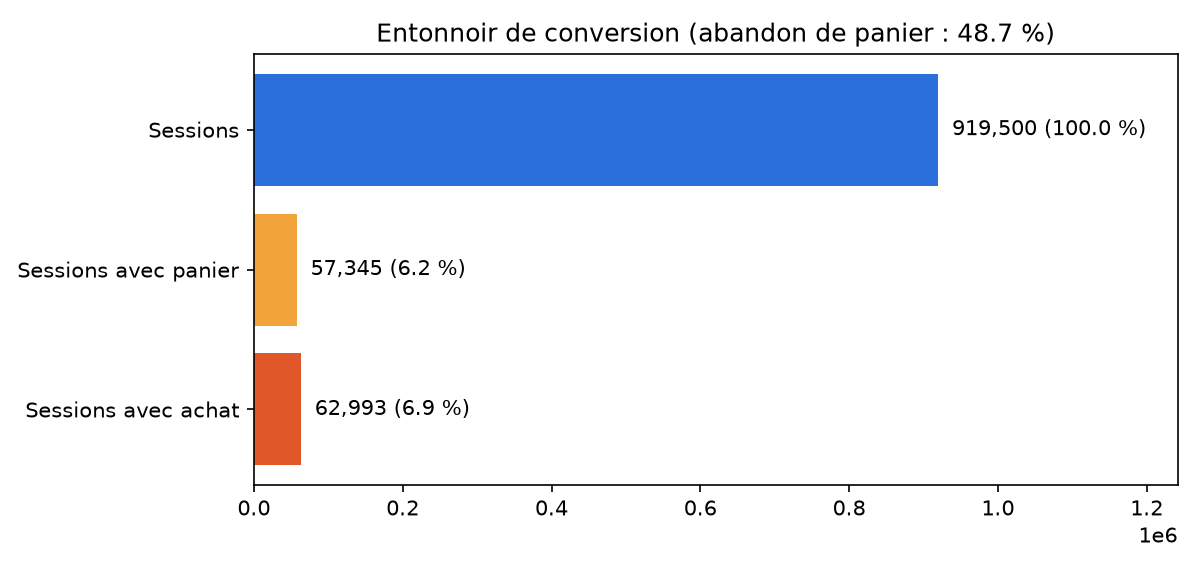
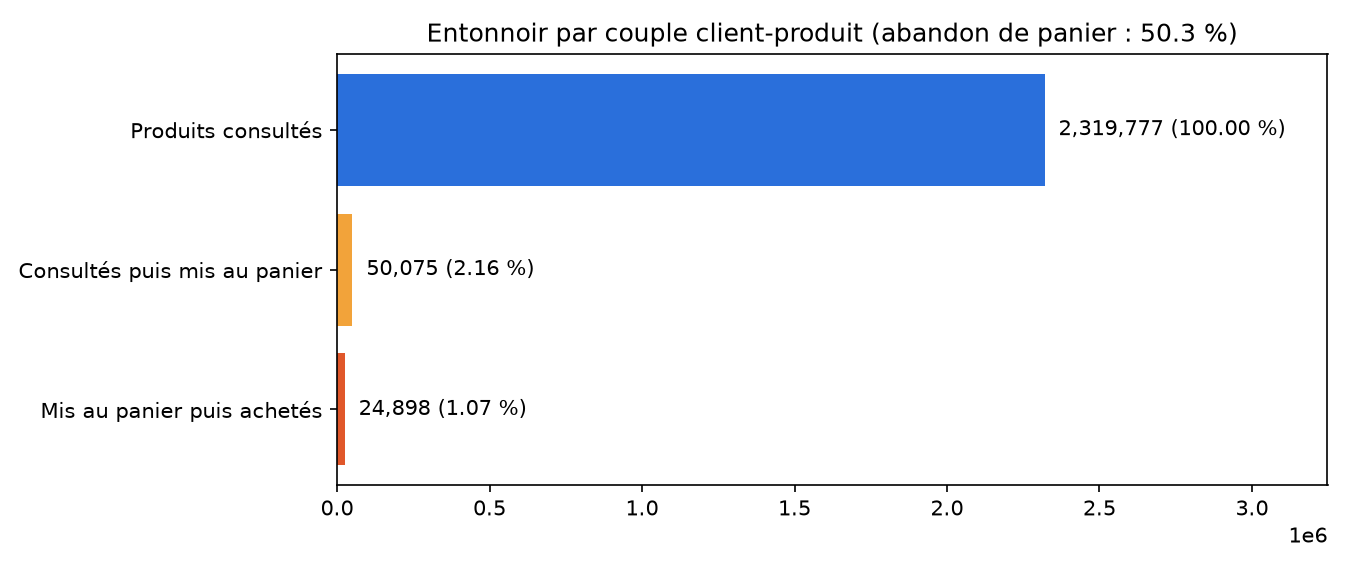
Etape 4: analyse exploratoire, entonnoir client-produit, graphiques

diff --git a/src/processing/funnel_product.py b/src/processing/funnel_product.py
@@ -1,0 +1,87 @@
+"""
+Étape 4 (correction) : entonnoir au niveau (client, produit).
+
+Pourquoi : au niveau session, ~50 % des sessions d'achat n'ont pas d'événement 'cart'
+(panier créé dans une autre session, ou achat direct). L'entonnoir par session n'est donc
+pas monotone. Au niveau (client, produit) sur tout le mois, on suit un même produit
+d'une session à l'autre.
+
+Usage :
+  docker exec spark-master /opt/spark/bin/spark-submit \
+      --master "local[4]" --driver-memory 3g \
+      /opt/project/src/processing/funnel_product.py
+"""
+import argparse
+import csv
+import os
+import time
+
+from pyspark.sql import SparkSession
+from pyspark.sql import functions as F
+
+
+def main():
+    p = argparse.ArgumentParser()
+    p.add_argument("--input", default="/opt/project/data/silver/events")
+    p.add_argument("--out-dir", default="/opt/project/docs/results")
+    args = p.parse_args()
+
+    spark = (
+        SparkSession.builder.appName("funnel-product")
+        .config("spark.sql.session.timeZone", "UTC")
+        .getOrCreate()
+    )
+    spark.sparkContext.setLogLevel("WARN")
+    t0 = time.time()
+
+    ev = spark.read.parquet(args.input).select("user_id", "product_id", "event_type", "event_time")
+
+    def first_time(t):
+        return F.min(F.when(F.col("event_type") == t, F.col("event_time")))
+
+    pairs = ev.groupBy("user_id", "product_id").agg(
+        first_time("view").alias("t_view"),
+        first_time("cart").alias("t_cart"),
+        first_time("purchase").alias("t_purchase"),
+    ).cache()
+
+    has_view = F.col("t_view").isNotNull()
+    has_cart = F.col("t_cart").isNotNull()
+    has_purchase = F.col("t_purchase").isNotNull()
+    bought_after_cart = has_cart & has_purchase & (F.col("t_purchase") >= F.col("t_cart"))
+
+    def s(cond):
+        return F.sum(F.when(cond, 1).otherwise(0))
+
+    r = pairs.agg(
+        F.count("*").alias("pairs_total"),
+        s(has_view).alias("viewed"),
+        s(has_view & has_cart).alias("viewed_carted"),
+        s(has_view & bought_after_cart).alias("viewed_carted_purchased"),
+        s(has_cart).alias("carted"),
+        s(bought_after_cart).alias("carts_converted"),
+        s(has_purchase).alias("purchased"),
+        s(has_purchase & ~bought_after_cart).alias("purchases_without_prior_cart"),
+    ).first()
+
+    row = r.asDict()
+    row["cart_abandon_rate"] = round(1 - row["carts_converted"] / row["carted"], 4)
+    row["direct_purchase_share"] = round(row["purchases_without_prior_cart"] / row["purchased"], 4)
+
+    os.makedirs(args.out_dir, exist_ok=True)
+    path = os.path.join(args.out_dir, "funnel_product.csv")
+    with open(path, "w", newline="", encoding="utf-8") as f:
+        w = csv.writer(f)
+        w.writerow(row.keys())
+        w.writerow(row.values())
+
+    print("\n" + "=" * 60)
+    for k, v in row.items():
+        print(f"{k:<32}{v:>15,}" if isinstance(v, int) else f"{k:<32}{v:>15}")
+    print("=" * 60)
+    print(f"-> {path}  ({time.time() - t0:.1f} s)")
+    spark.stop()
+
+
+if __name__ == "__main__":
+    main()

diff --git a/src/processing/make_charts.py b/src/processing/make_charts.py
@@ -65,18 +65,23 @@ ax.grid(False)
 fig.colorbar(im, ax=ax, label="Événements")
 save(fig, "02_activite_heure_jour")
 
-# --- 3. Entonnoir de conversion ------------------------------------------------------------
-f = rd("funnel").iloc[0]
-stages = ["Sessions", "Sessions avec panier", "Sessions avec achat"]
-vals = [f.sessions, f.with_cart, f.with_purchase]
-fig, ax = plt.subplots(figsize=(8, 3.8))
+# --- 3. Entonnoir de conversion (niveau client x produit) ---------------------------------------
+# Calculé par funnel_product.py : un produit est suivi d'une session à l'autre, ce qui
+# garantit un entonnoir monotone (contrairement au niveau session).
+f = rd("funnel_product").iloc[0]
+stages = ["Produits consultés", "Consultés puis mis au panier", "Mis au panier puis achetés"]
+vals = [f.viewed, f.viewed_carted, f.viewed_carted_purchased]
+fig, ax = plt.subplots(figsize=(9, 3.8))
 bars = ax.barh(stages[::-1], vals[::-1], color=["#e0572a", "#f2a33a", "#2a6fdb"])
 for b, v in zip(bars, vals[::-1]):
-    ax.text(v, b.get_y() + b.get_height() / 2, f"  {int(v):,} ({100 * v / f.sessions:.1f} %)", va="center")
-ax.set_xlim(0, f.sessions * 1.35)
-ax.set_title(f"Entonnoir de conversion (abandon de panier : {100 * f.cart_abandon_rate:.1f} %)")
+    ax.text(v, b.get_y() + b.get_height() / 2, f"  {int(v):,} ({100 * v / f.viewed:.2f} %)", va="center")
+ax.set_xlim(0, f.viewed * 1.4)
+ax.set_title(
+    f"Entonnoir par couple client-produit (abandon de panier : {100 * f.cart_abandon_rate:.1f} %)"
+)
 ax.grid(False)
 save(fig, "03_entonnoir")
+print(f"Achats sans panier préalable : {100 * f.direct_purchase_share:.1f} % des produits achetés\n")
 
 # --- 4. Conversion par catégorie --------------------------------------------------------------
 c = rd("funnel_category")
